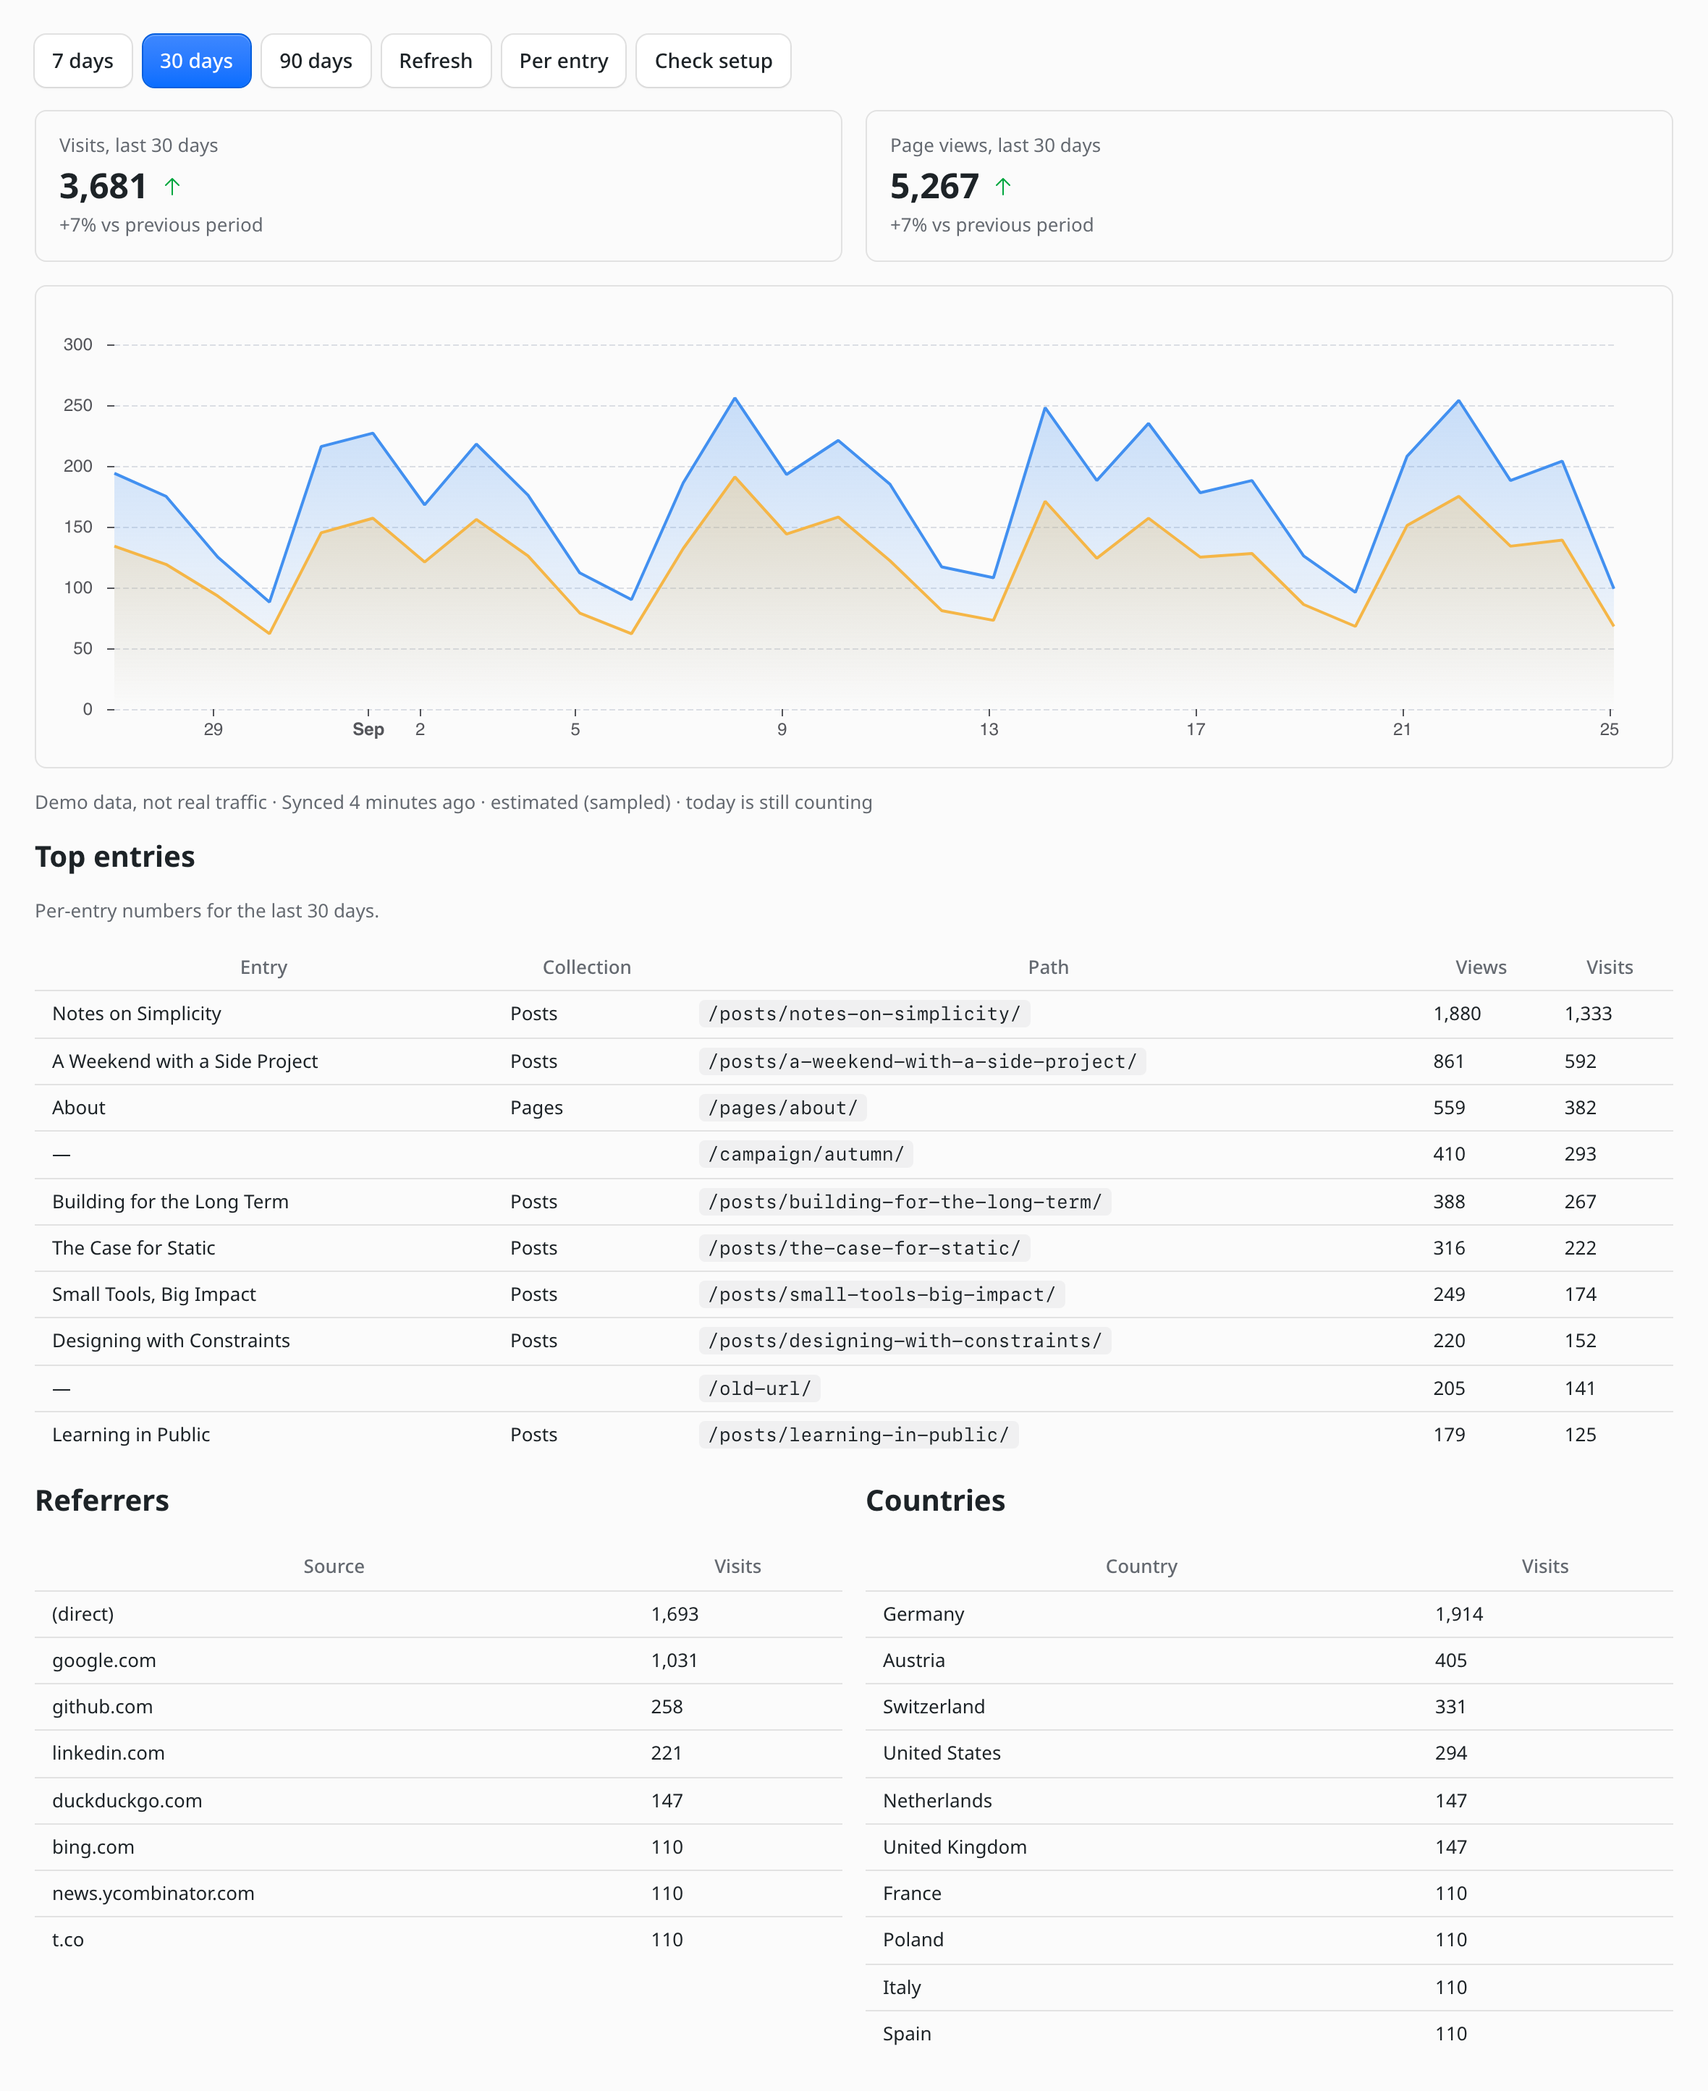
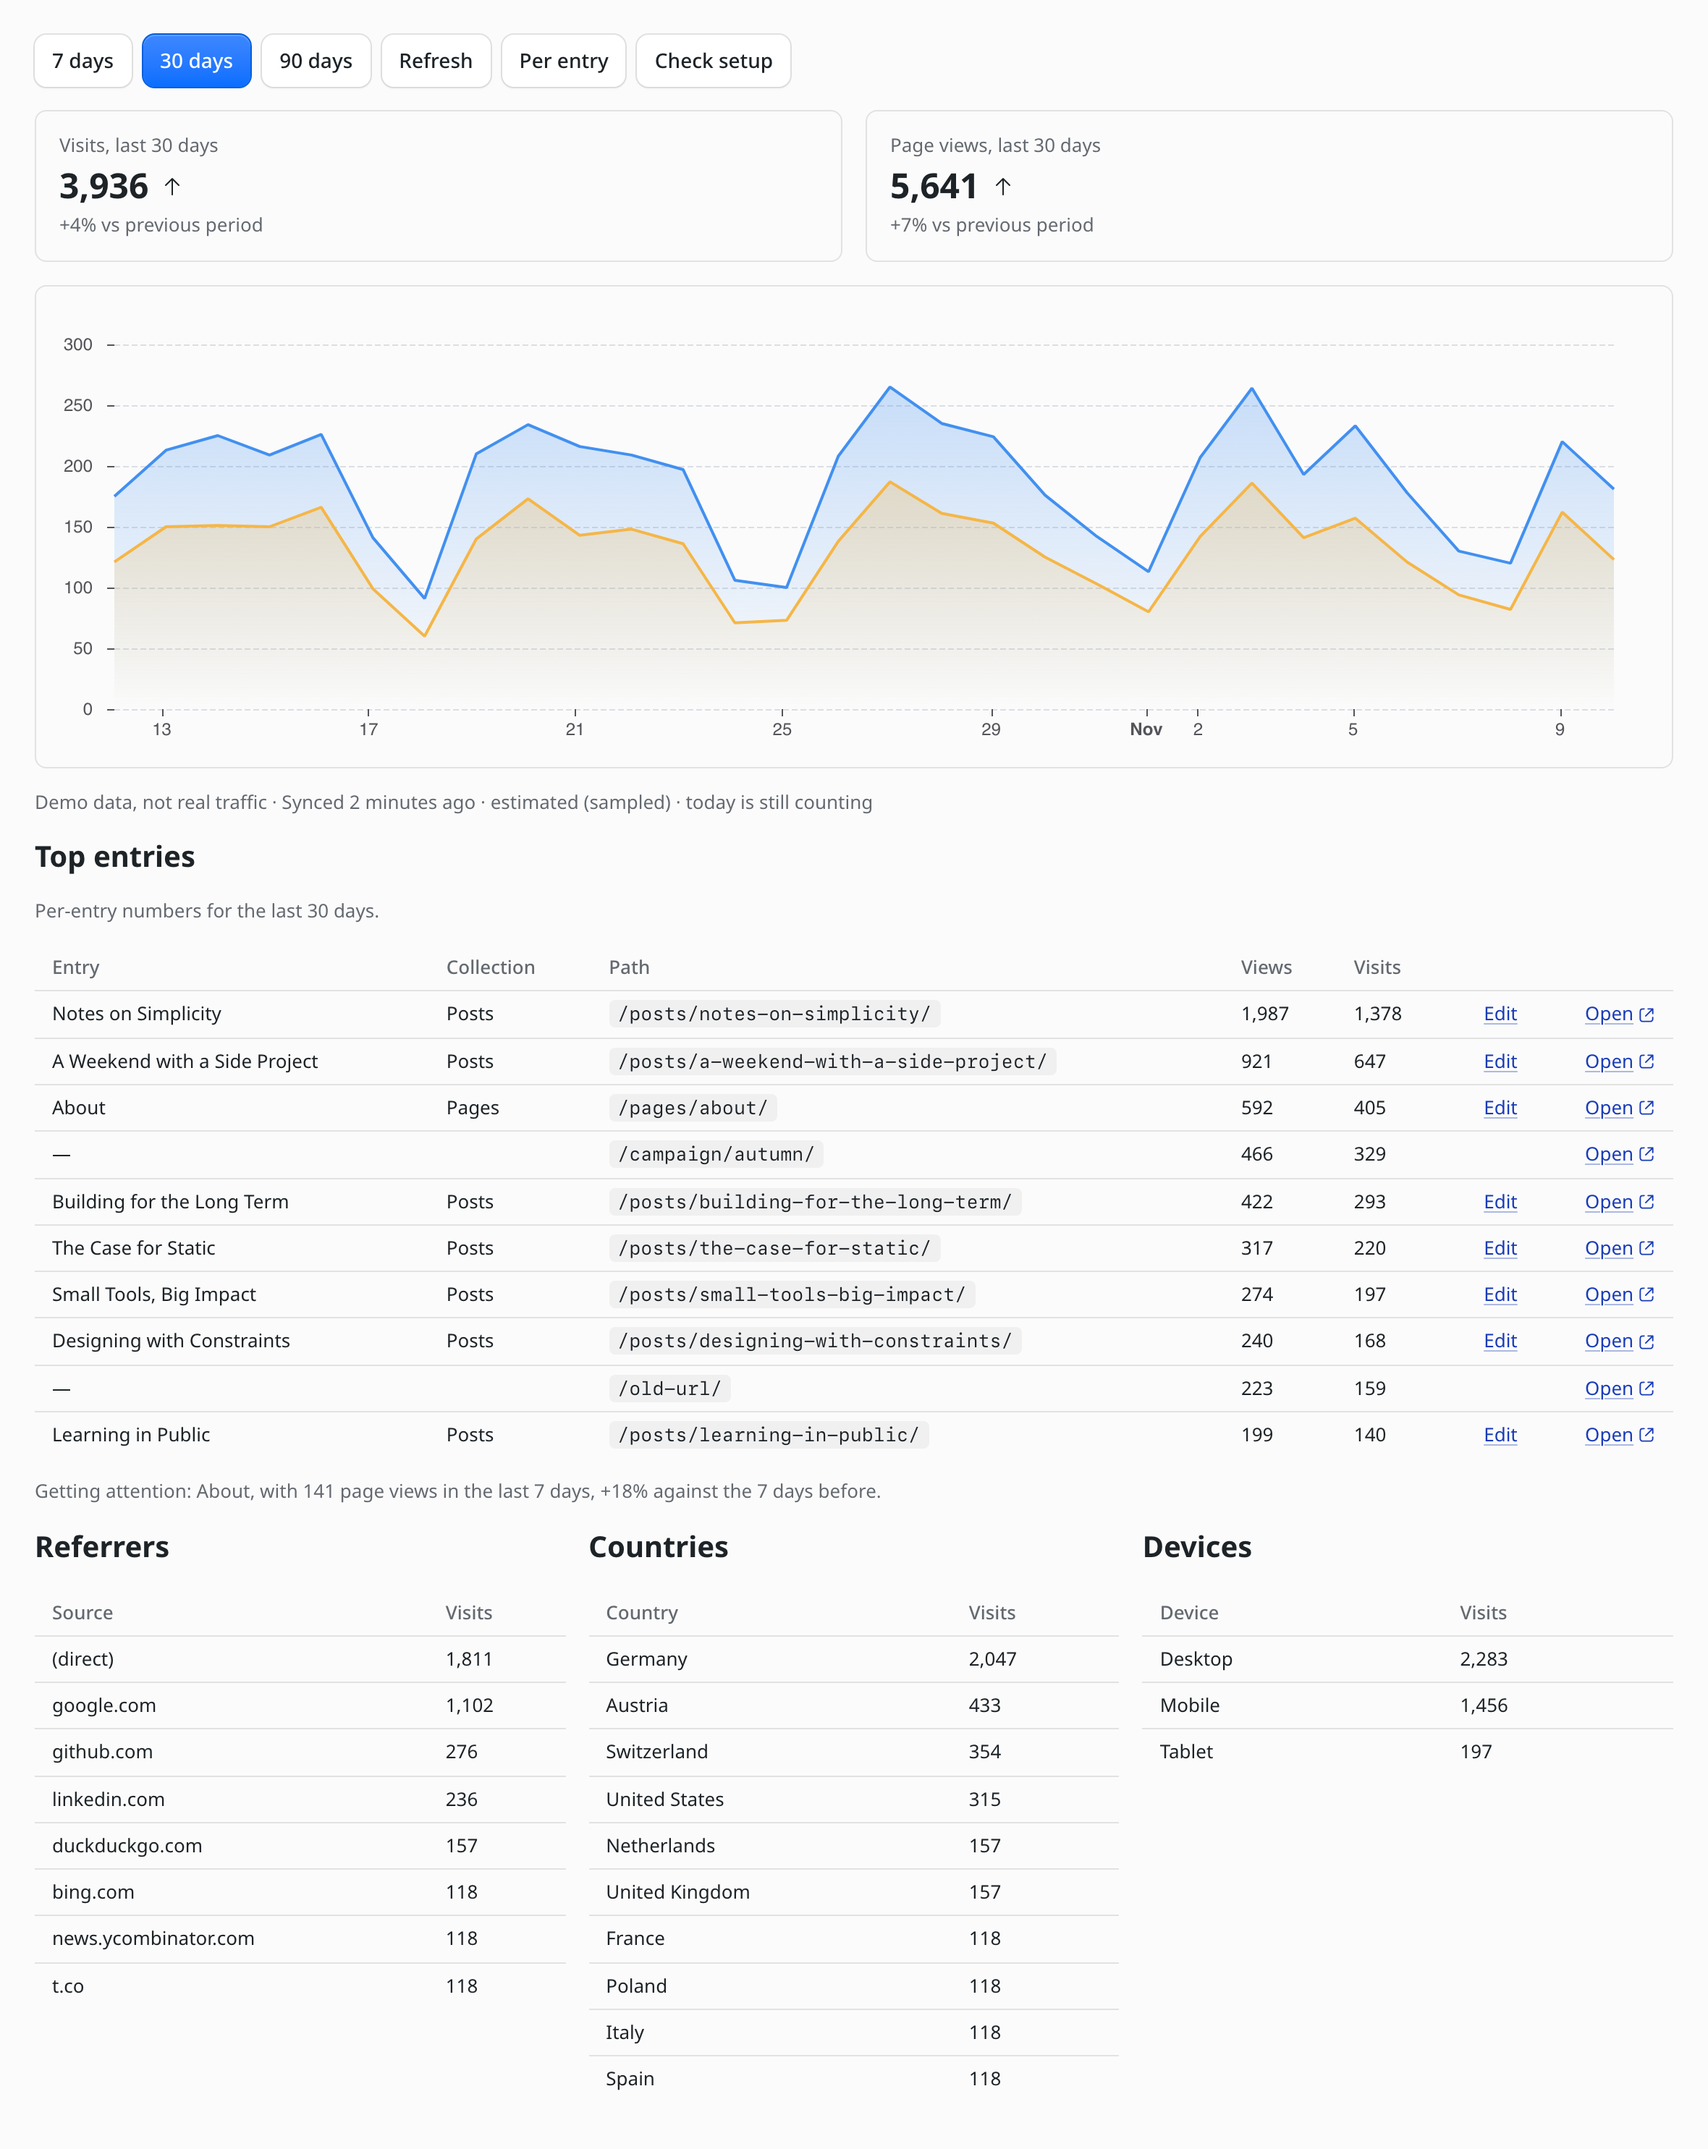
docs: screenshots of the widget, both pages and the setup check
Taken on a create-emdash 1.4.0 blog site with demo data. For the per-entry
and Analytics page shots the demo store holds a month of per-entry rows and
the entries carry earlier publish dates, as on a site that has run the
plugin that long, so the 7-day change is filled.

diff --git a/README.md b/README.md
@@ -32,14 +32,14 @@ open does not ask the provider on every visit. Refresh asks again at once.
 A live week has no week before it to compare with; the comparison and the
 longer chart come from the store.
 
-<img src="https://raw.githubusercontent.com/eisbachcode/emdash-plugin-analytics/main/images/widget.png" width="554" alt="The Traffic widget: visits and page views for the last 7 days with their change against the previous week, and the five most viewed pages with entry title, path and views">
+<img src="https://raw.githubusercontent.com/eisbachcode/emdash-plugin-analytics/main/images/widget.png" width="554" alt="The Traffic widget: visits and page views for the last 7 days with their change against the previous week, a chart of the last 30 days, and the five most viewed pages with entry title, path, views and links to edit the entry and open the page">
 
 ## The Analytics page
 
 **Plugins → Analytics** in the admin sidebar, or "Open analytics" on the
 dashboard widget. Editors and admins see it.
 
-<img src="https://raw.githubusercontent.com/eisbachcode/emdash-plugin-analytics/main/images/analytics-page.png" width="820" alt="The Analytics page over 30 days: visits and page views with their change, a daily chart, top entries with collection, path, views and visits, and tables of referrers and countries">
+<img src="https://raw.githubusercontent.com/eisbachcode/emdash-plugin-analytics/main/images/analytics-page.png" width="820" alt="The Analytics page over 30 days: visits and page views with their change, a daily chart, top entries with collection, path, views, visits and links to edit and open each, the entry that is getting attention, and tables of referrers, countries and devices">
 
 The page asks the provider live on every load, so it has numbers from the
 first minute after setup; it does not wait for the sync. It only ever asks
@@ -89,7 +89,7 @@ which **Open settings** leads to. It makes one request to Cloudflare.
 
 **Plugins → Analytics per entry**, or "Per entry" on the Analytics page.
 
-<img src="https://raw.githubusercontent.com/eisbachcode/emdash-plugin-analytics/main/images/per-entry.png" width="820" alt="Analytics per entry: every published entry with its collection, path, page views over 7 and 30 days and publish date, most viewed first">
+<img src="https://raw.githubusercontent.com/eisbachcode/emdash-plugin-analytics/main/images/per-entry.png" width="820" alt="Analytics per entry: every published entry with its collection, path, page views over 7 days, their change against the 7 days before, page views over 30 days, publish date and links to edit and open it, most viewed first">
 
 Every published entry with its page views over the last 7 and 30 days,
 today included, by collection or across all of them. Click a column header
